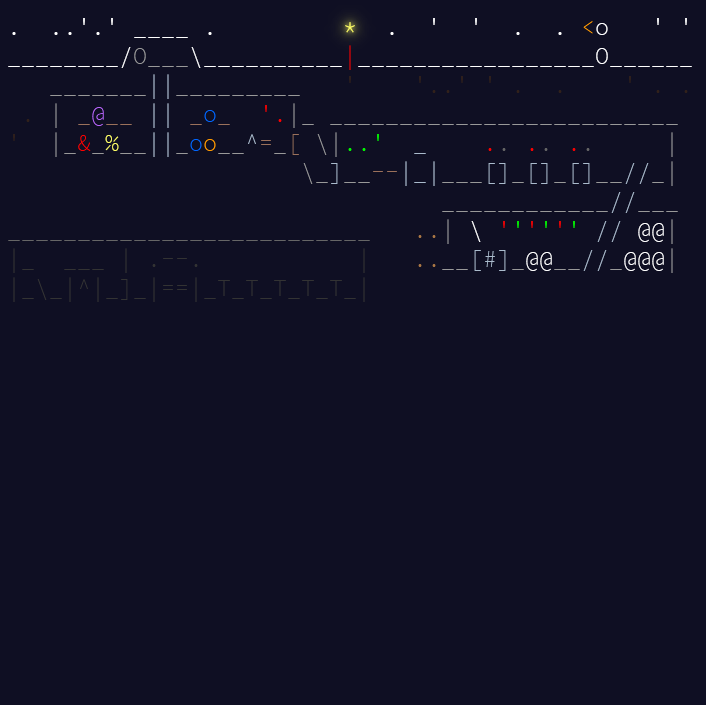
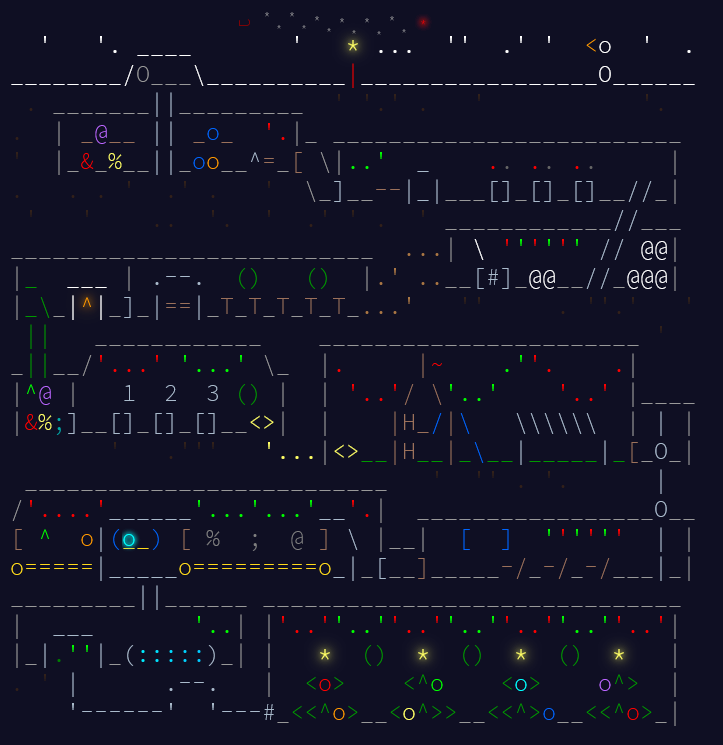
updated aoc

diff --git a/index.html b/index.html
@@ -669,112 +669,130 @@
           </div>
         </div>
         <div class="w-full mt-6 reveal-text">
-          <h4 class="text-white font-medium mb-3 text-sm ml-1">
-            Seasonal Challenges
-          </h4>
-
-          <div
-            class="w-full h-auto md:h-20 border border-gray-800 rounded-xl bg-gray-900/40 backdrop-blur-sm overflow-hidden flex flex-col md:flex-row items-center p-4 md:px-6 gap-4 md:gap-6 group hover:border-gray-700 transition-all relative"
-          >
-            <div
-              class="absolute inset-0 opacity-10 pointer-events-none"
-              style="
-                background-image: linear-gradient(
-                  45deg,
-                  #333 25%,
-                  transparent 25%,
-                  transparent 50%,
-                  #333 50%,
-                  #333 75%,
-                  transparent 75%,
-                  transparent
-                );
-                background-size: 20px 20px;
-              "
-            ></div>
+          <div class="w-full md:w-[90%] mx-auto mt-6 reveal-text">
+            <h4 class="text-white font-medium mb-3 text-sm ml-1">
+              Seasonal Challenges
+            </h4>
 
             <div
-              class="flex flex-row md:flex-col justify-between md:justify-center w-full md:w-fit md:min-w-fit z-10 items-center md:items-start"
-            >
-              <div class="flex items-center gap-2.5">
-                <i class="fas fa-tree text-green-500 text-lg"></i>
-                <span class="text-base text-white font-bold tracking-tight"
-                  >AoC 2025</span
-                >
-              </div>
-              <span
-                class="text-[10px] text-yellow-500 font-mono tracking-widest uppercase mt-0 md:mt-0.5 md:pl-7"
-                >Active Event</span
-              >
-            </div>
-
-            <div
-              class="w-full md:flex-1 flex flex-col justify-center px-0 md:px-4 z-10"
+              class="w-full h-auto md:h-24 border border-yellow-500/30 rounded-xl bg-gray-900/40 backdrop-blur-sm overflow-hidden flex flex-col md:flex-row items-center justify-between p-4 md:px-8 gap-4 group hover:border-yellow-500/50 transition-all relative shadow-[0_0_20px_rgba(234,179,8,0.05)]"
             >
               <div
-                class="flex justify-between text-[10px] text-gray-400 font-mono mb-1.5"
-              >
-                <span class="text-blue-400 font-bold tracking-wider"
-                  >DAY 7</span
-                >
-                <span class="text-white">58% COMPLETE</span>
-              </div>
+                class="absolute inset-0 opacity-10 pointer-events-none"
+                style="
+                  background-image: linear-gradient(
+                    45deg,
+                    #333 25%,
+                    transparent 25%,
+                    transparent 50%,
+                    #333 50%,
+                    #333 75%,
+                    transparent 75%,
+                    transparent
+                  );
+                  background-size: 20px 20px;
+                "
+              ></div>
+
               <div
-                class="h-2 w-full bg-gray-800 rounded-full overflow-hidden border border-gray-700/50"
+                class="flex flex-row md:flex-col justify-between md:justify-center w-full md:w-fit md:min-w-fit z-10 items-center md:items-start"
               >
-                <!-- progress bar w-[33%]  -->
+                <div class="flex items-center gap-3">
+                  <i class="fas fa-tree text-green-500 text-xl"></i>
+                  <span class="text-lg text-white font-bold tracking-tight"
+                    >AoC 2025</span
+                  >
+                </div>
+                <span
+                  class="text-[10px] text-green-400 font-mono tracking-widest uppercase mt-0 md:mt-1 md:pl-8 flex items-center gap-1.5"
+                >
+                  <span
+                    class="w-1.5 h-1.5 bg-green-500 rounded-full animate-pulse"
+                  ></span>
+                  Caught Up
+                </span>
+              </div>
+
+              <div
+                class="w-full md:flex-1 flex flex-col items-center justify-center z-10 border-t md:border-t-0 md:border-l md:border-r border-gray-800/50 py-4 md:py-0"
+              >
+                <div class="flex items-baseline gap-2">
+                  <span
+                    class="text-4xl md:text-5xl font-bold text-transparent bg-clip-text bg-gradient-to-r from-yellow-300 via-yellow-500 to-yellow-600 drop-shadow-sm"
+                  >
+                    24/24
+                  </span>
+                  <span
+                    class="text-sm text-yellow-500 font-mono font-bold tracking-wider"
+                    >STARS</span
+                  >
+                </div>
                 <div
-                  class="h-full bg-gradient-to-r from-yellow-600 to-yellow-400 w-[58%] shadow-[0_0_12px_rgba(250,204,21,0.4)] relative"
+                  class="mt-1 px-3 py-0.5 rounded bg-yellow-500/10 border border-yellow-500/20 text-yellow-400 text-[10px] font-mono uppercase tracking-widest"
                 >
-                  <div class="absolute inset-0 bg-white/20 animate-pulse"></div>
-                </div>
-              </div>
-            </div>
-
-            <div
-              class="flex items-center justify-between md:justify-start gap-2 md:gap-6 w-full md:w-fit md:min-w-fit z-10 h-auto md:h-full border-t md:border-t-0 md:border-l border-gray-800/50 pt-3 md:pt-0 pl-0 md:pl-6"
-            >
-              <div class="flex items-center gap-4 md:gap-6 font-mono">
-                <div class="flex flex-col items-center gap-0.5">
-                  <span class="text-gray-500 text-xs uppercase font-medium"
-                    >2024</span
-                  >
-                  <span class="text-blue-400 font-bold text-base leading-none">
-                    19<i class="fas fa-star text-[10px] ml-1 text-blue-900"></i>
-                  </span>
-                </div>
-                <div class="flex flex-col items-center gap-0.5">
-                  <span class="text-gray-500 text-xs uppercase font-medium"
-                    >2023</span
-                  >
-                  <span class="text-gray-300 font-bold text-base leading-none">
-                    04<i class="fas fa-star text-[10px] ml-1 text-gray-600"></i>
-                  </span>
+                  Day 12 Complete
                 </div>
               </div>
 
-              <div class="flex items-center justify-end gap-3 md:gap-2">
-                <div class="text-right">
-                  <div class="flex items-center justify-end gap-1.5">
-                    <span class="text-3xl font-bold text-white leading-none"
-                      >37</span
+              <div
+                class="flex items-center justify-between md:justify-end gap-8 md:gap-12 w-full md:w-fit z-10 h-auto border-t md:border-t-0 border-gray-800/50 pt-4 md:pt-0"
+              >
+                <div class="flex items-end gap-8 font-mono">
+                  <div class="flex flex-col items-center gap-1">
+                    <span
+                      class="text-gray-500 text-[10px] uppercase font-bold tracking-wider"
+                      >2024</span
                     >
-                    <i class="fas fa-star text-yellow-500 text-sm mb-1"></i>
+                    <span
+                      class="text-blue-400 font-bold text-2xl md:text-3xl leading-none drop-shadow-sm"
+                    >
+                      19<i
+                        class="fas fa-star text-xs ml-1 text-blue-900 align-top"
+                      ></i>
+                    </span>
                   </div>
-                  <div
-                    class="text-[10px] text-gray-500 font-mono text-right uppercase mt-1 tracking-wider"
-                  >
-                    Total Stars
+
+                  <div class="flex flex-col items-center gap-1">
+                    <span
+                      class="text-gray-600 text-[10px] uppercase font-bold tracking-wider"
+                      >2023</span
+                    >
+                    <span
+                      class="text-gray-400 font-bold text-xl md:text-2xl leading-none"
+                    >
+                      04<i
+                        class="fas fa-star text-[10px] ml-1 text-gray-700 align-top"
+                      ></i>
+                    </span>
                   </div>
                 </div>
 
-                <a
-                  href="./assets/aoc-2025.png"
-                  target="_blank"
-                  class="h-9 w-9 rounded-lg bg-gray-800 hover:bg-gray-700 flex items-center justify-center text-blue-400 hover:text-white transition-all border border-gray-700 ml-0 md:ml-2"
-                >
-                  <i class="fas fa-external-link-alt text-xs"></i>
-                </a>
+                <div class="w-px h-10 bg-gray-800 hidden md:block"></div>
+
+                <div class="flex items-center gap-4 pl-0 md:pl-2">
+                  <div class="text-right">
+                    <div class="flex items-center justify-end gap-2">
+                      <span
+                        class="text-3xl md:text-4xl font-bold text-white leading-none drop-shadow-[0_0_15px_rgba(234,179,8,0.2)]"
+                        >47</span
+                      >
+                      <i class="fas fa-star text-yellow-500 text-base mb-1"></i>
+                    </div>
+                    <div
+                      class="text-[10px] text-gray-500 font-mono text-right uppercase mt-1 tracking-widest"
+                    >
+                      Total
+                    </div>
+                  </div>
+
+                  <a
+                    href="./assets/aoc-2025.png"
+                    target="_blank"
+                    class="h-10 w-10 rounded-lg bg-gray-800 hover:bg-gray-700 flex items-center justify-center text-yellow-500 hover:text-white transition-all border border-gray-700 hover:border-yellow-500/50"
+                  >
+                    <i class="fas fa-external-link-alt text-xs"></i>
+                  </a>
+                </div>
               </div>
             </div>
           </div>